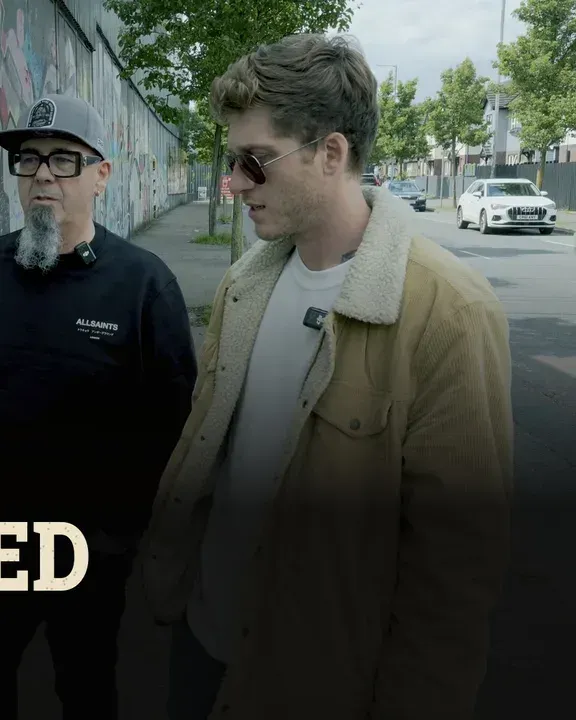
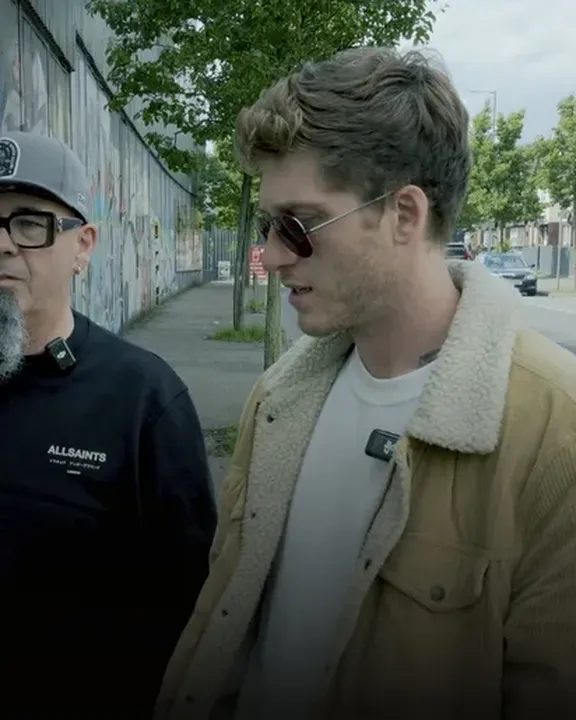
Black homepage: video grid with no text
Claude-Session: https://claude.ai/code/session_01UQHQ29FpQRLu9nWmAi7RPu

diff --git a/src/styles/global.css b/src/styles/global.css
@@ -1,9 +1,9 @@
 :root {
-  --paper: #EFE6D0; --paper-2: #F7F1E2; --paper-3: #E6DABE;
-  --ink: #2A251E; --ink-2: #5A5143;
+  --paper: #000; --paper-2: #0c0c0c; --paper-3: #111;
+  --ink: #EDEDED; --ink-2: #9a9a9a;
   --green: #17503D; --green-2: #0F3A2C; --green-soft: #B9C2A0;
   --red: #C23B2E; --brick: #8A3A24; --salmon: #E8B49A; --mustard: #E9B84A;
-  --rule: #2A251E;
+  --rule: #333;
   --display: 'Playfair Display', Georgia, serif;
   --gothic: 'League Gothic', 'Oswald', Impact, sans-serif;
   --script: 'Yellowtail', cursive;
@@ -15,7 +15,7 @@
 *, *::before, *::after { box-sizing: border-box; }
 html { -webkit-text-size-adjust: 100%; scroll-behavior: smooth; }
 body { margin: 0; color: var(--ink); font-family: var(--serif); font-size: clamp(17px, 1.1vw + 12px, 19px); line-height: 1.55; -webkit-font-smoothing: antialiased;
-  background-color: var(--paper); background-image: url('/media/linen.png'); background-size: 320px 320px; }
+  background-color: #000; }
 img { max-width: 100%; display: block; }
 a { color: inherit; }
 :focus-visible { outline: 2px solid var(--green); outline-offset: 3px; }
